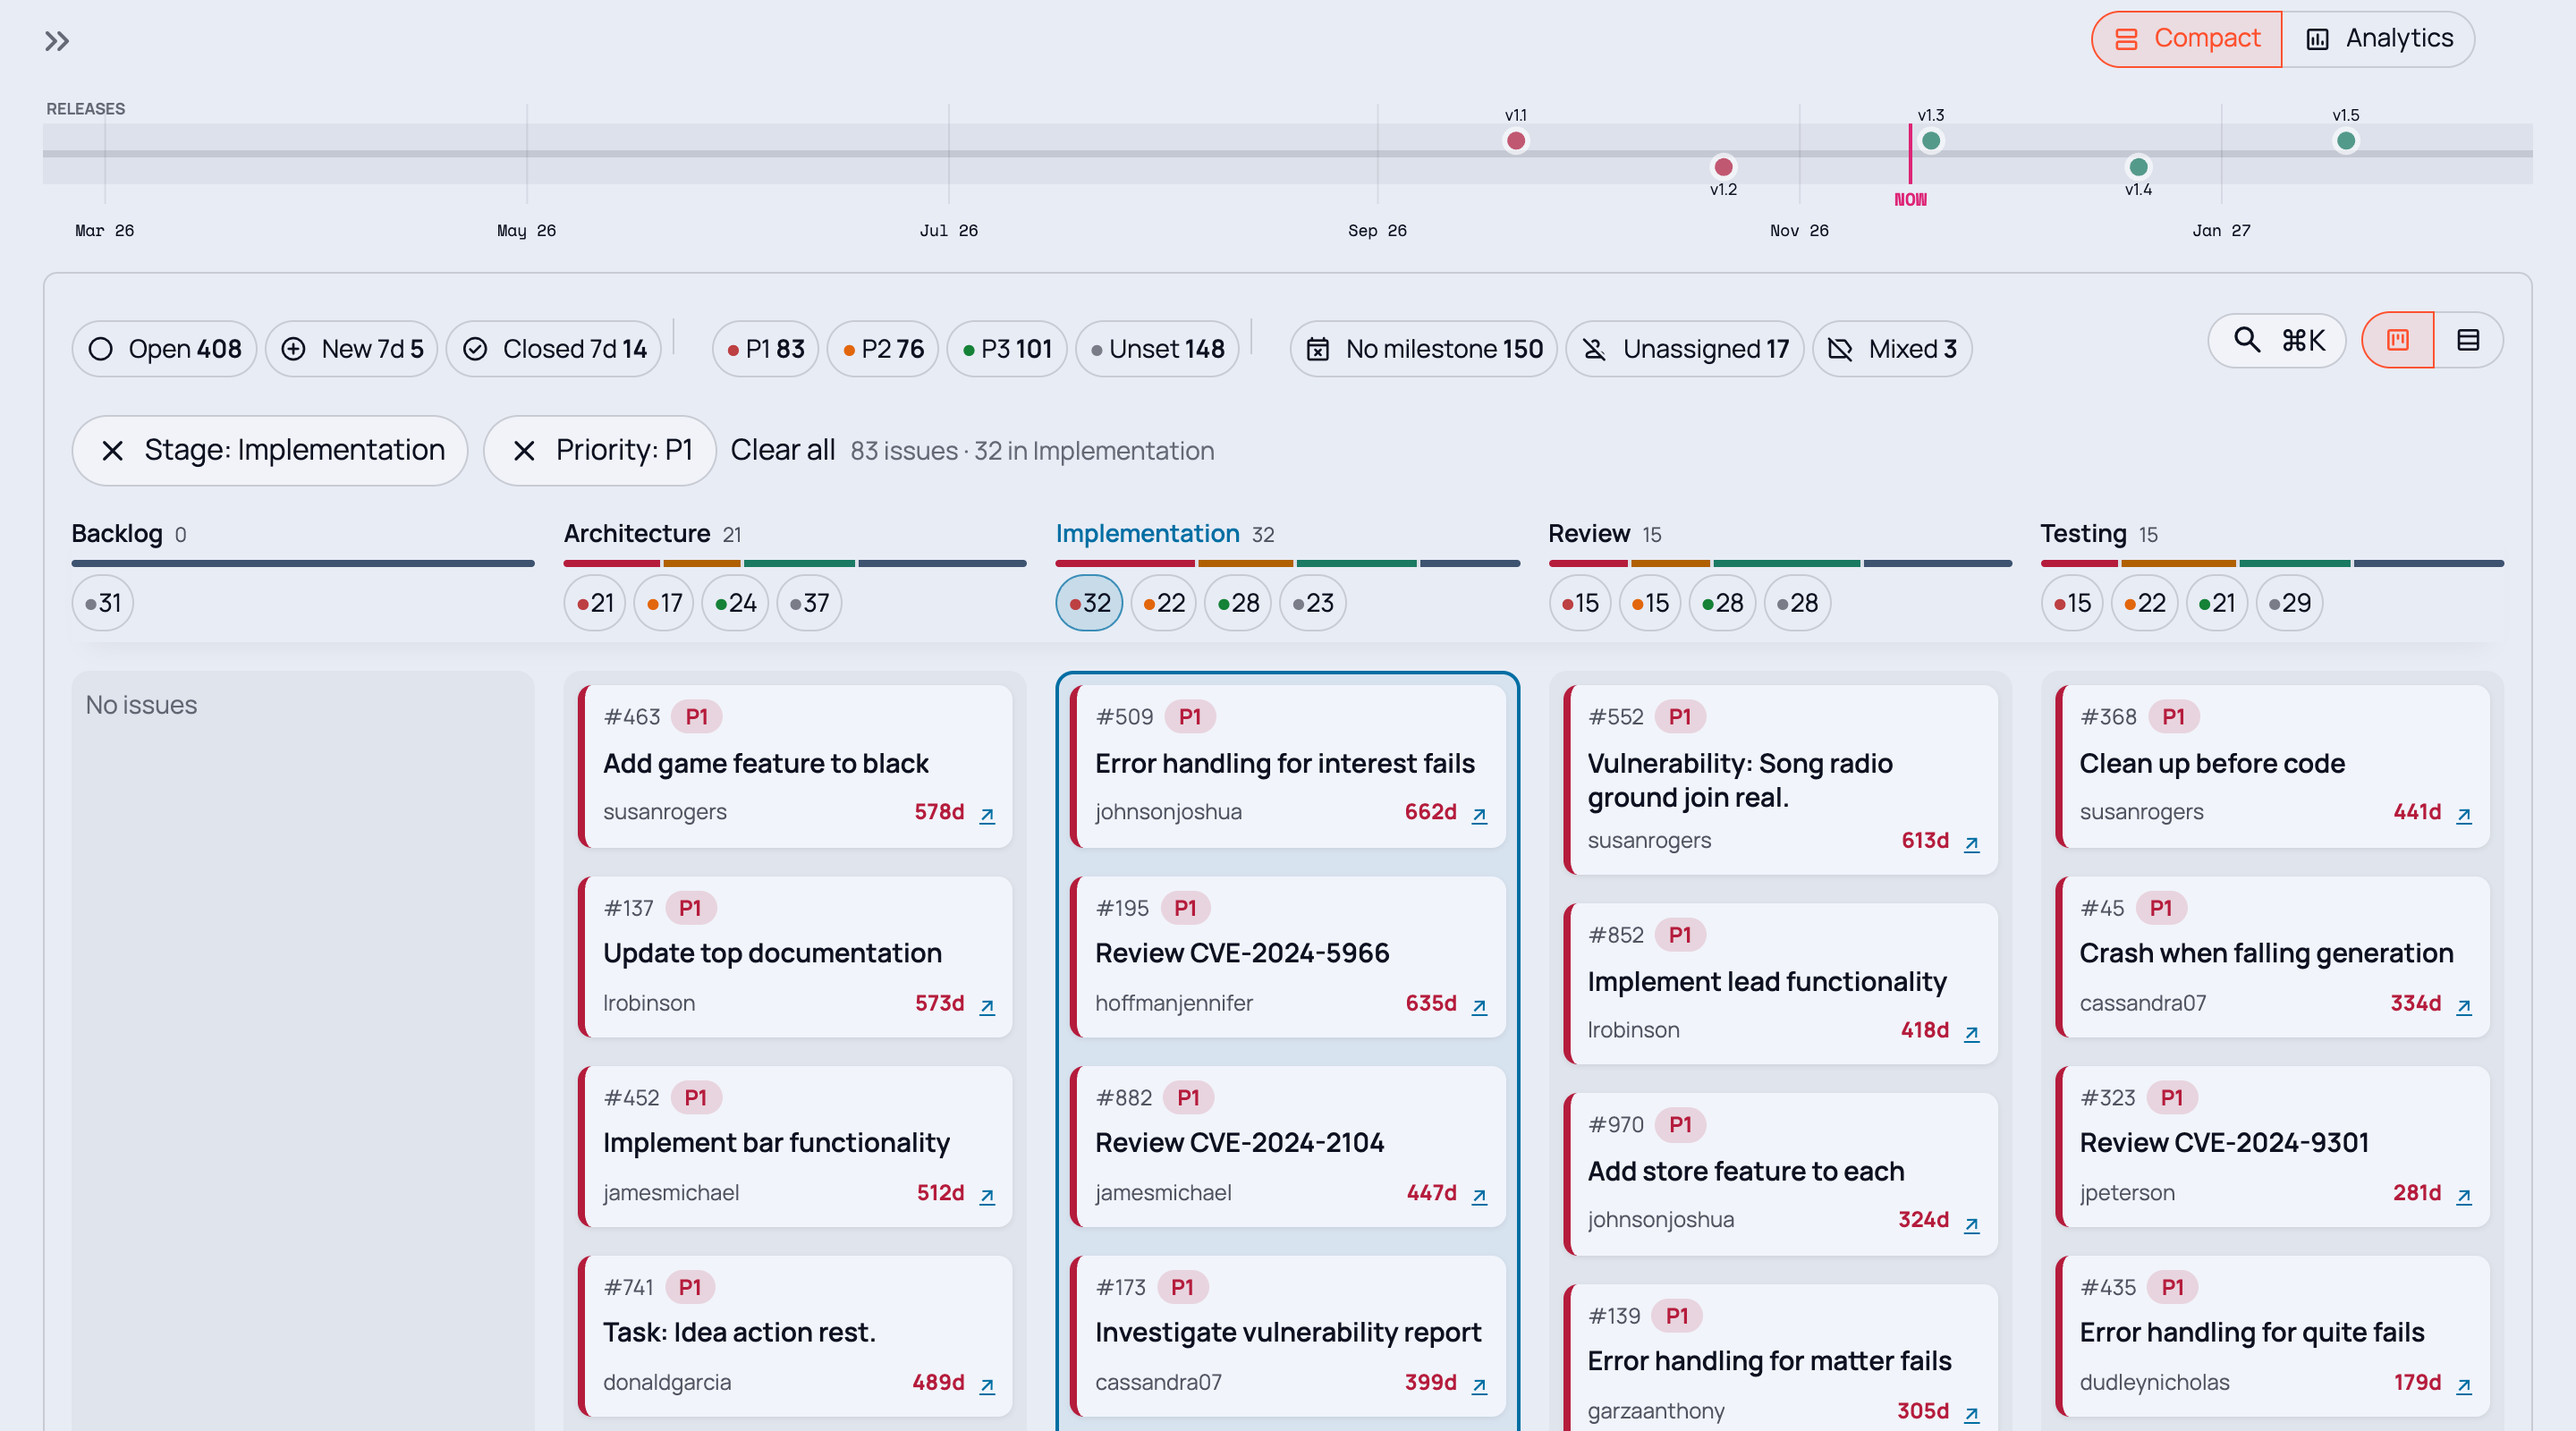
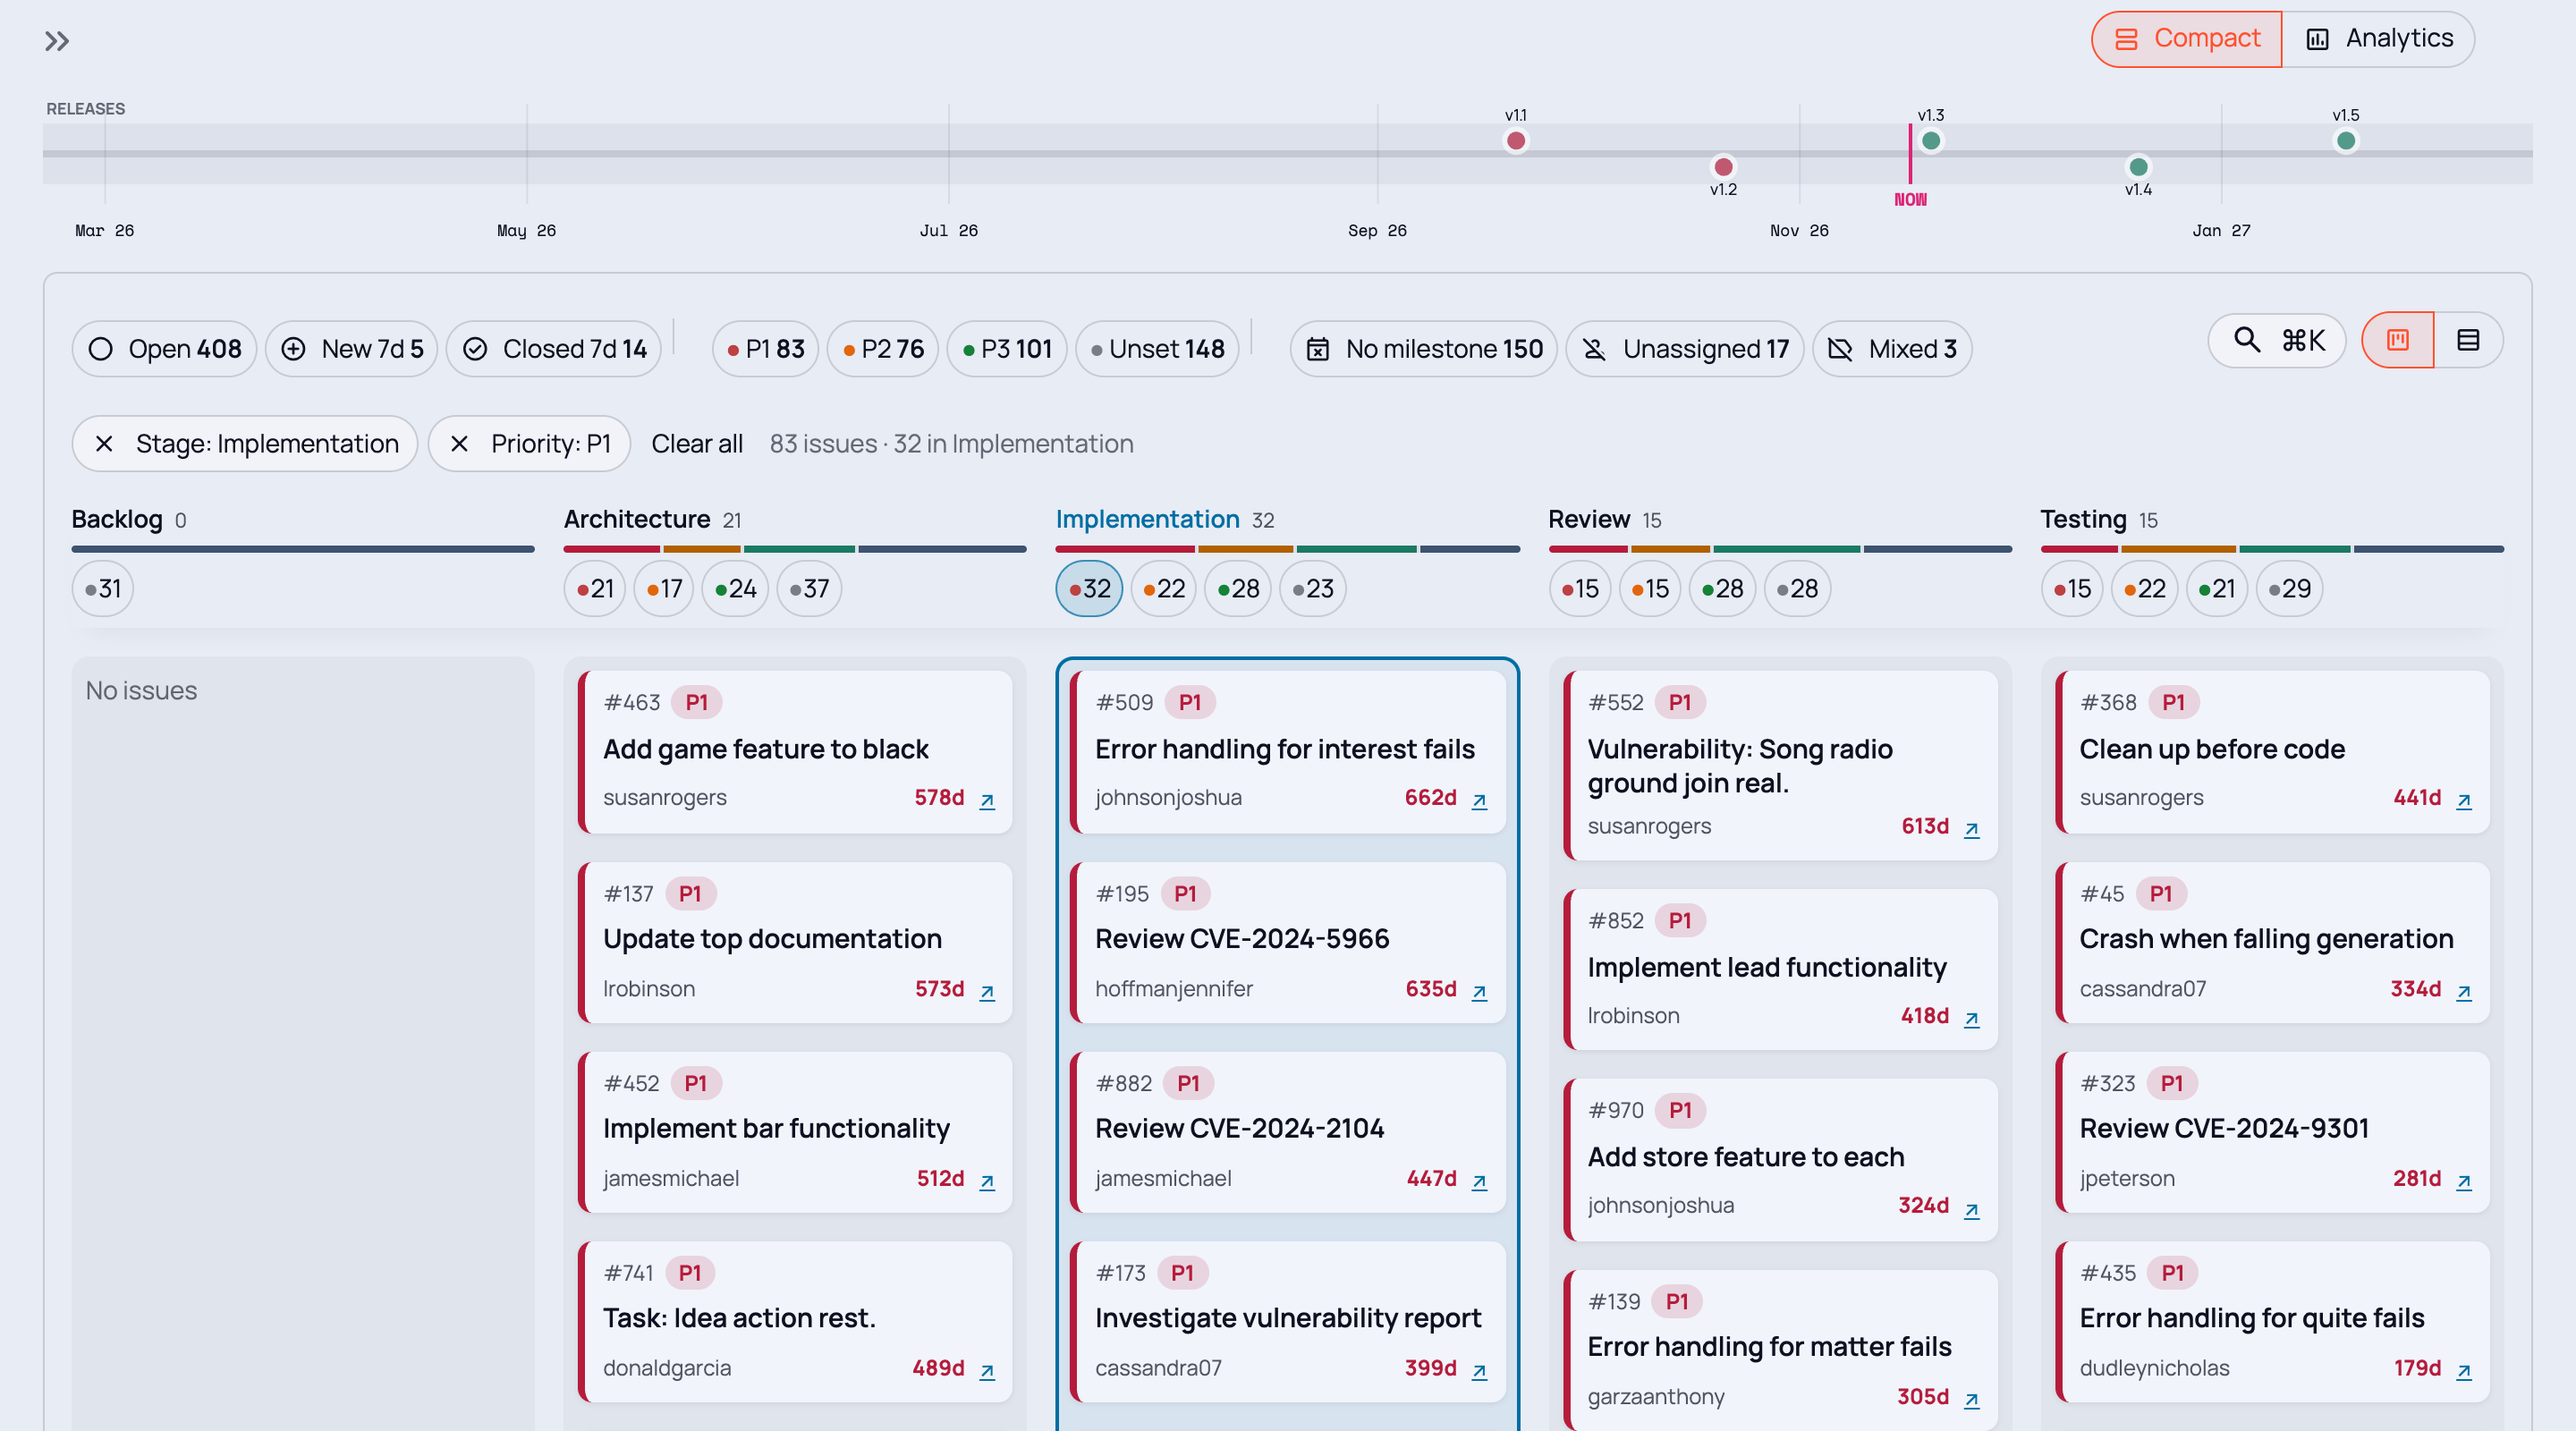
fix(dashboard): size the board's filter chips like the summary pills
The filter chips (for example "Stage: Architecture") were full-size
Streamlit buttons and looked oversized next to the compact summary and
lane pills. They now use the pills' height, text and icon size, and are
rounded the same way.

diff --git a/app/dashboard/theme.py b/app/dashboard/theme.py
@@ -745,6 +745,11 @@ div[data-testid="stRadio"] > div > label[data-checked="true"] {{
 .st-key-search_results [data-testid="stButton"] button:hover {{ background: {_with_alpha(text_color, 0.06, secondary_bg)}; }}
 .st-key-search_results [data-testid="stButton"] button p {{ text-align: left; white-space: nowrap; overflow: hidden; text-overflow: ellipsis; }}
 .st-key-issue_panel_chips, .st-key-issue_panel_actions {{ gap: 0.5rem; }}
+/* Filter chips: the same size as the summary pills in the toolbar above. */
+.st-key-issue_panel_chips {{ gap: 0.3rem; }}
+.st-key-issue_panel_chips [data-testid="stButton"] button {{ min-height: 2rem; padding: 0 0.6rem 0 0.45rem; border-radius: 999px; gap: 0.3rem; }}
+.st-key-issue_panel_chips [data-testid="stButton"] button p {{ font-size: 0.875rem; }}
+.st-key-issue_panel_chips [data-testid="stButton"] button [data-testid="stIconMaterial"] {{ font-size: 1rem; }}
 .st-key-issue_panel {{ gap: 0.6rem; }}
 /* st_keyup sizes its input to the iframe; with a collapsed label it would stretch */
 .ib-lane-head {{ display: flex; align-items: baseline; gap: 0.4rem; font-size: 0.85rem; margin-bottom: 0.1rem; color: {text_color}; }}
